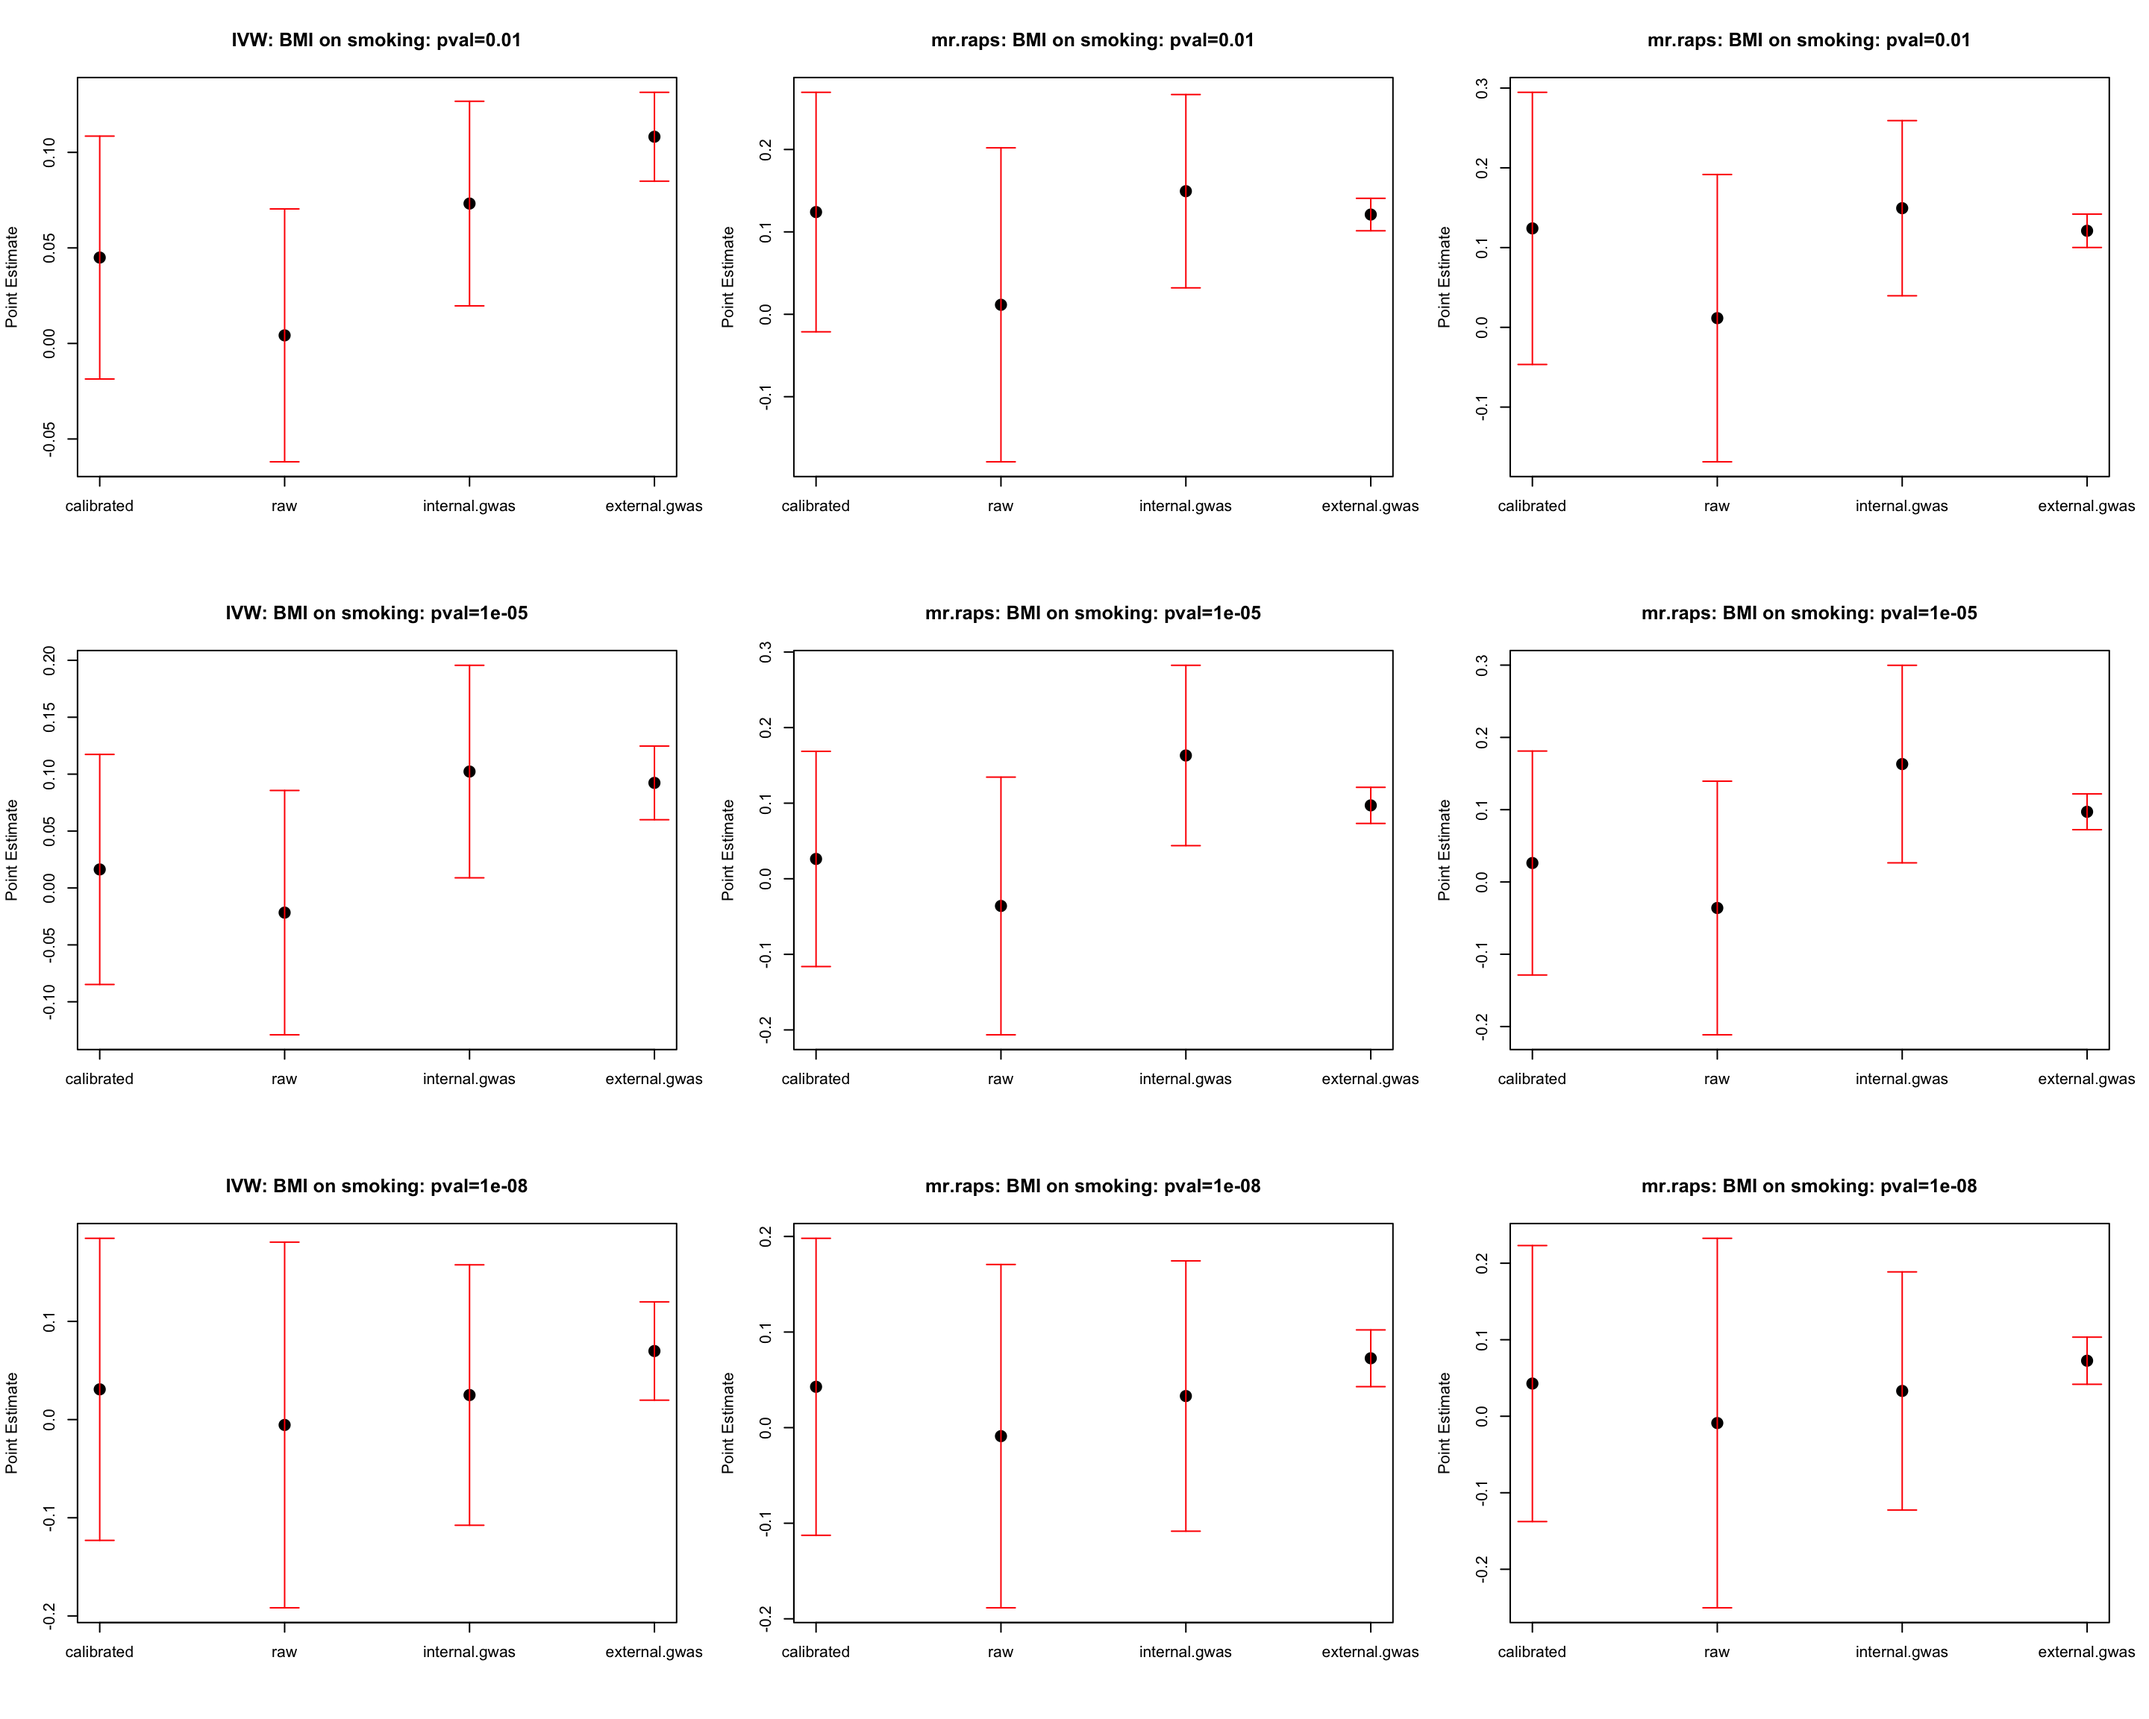
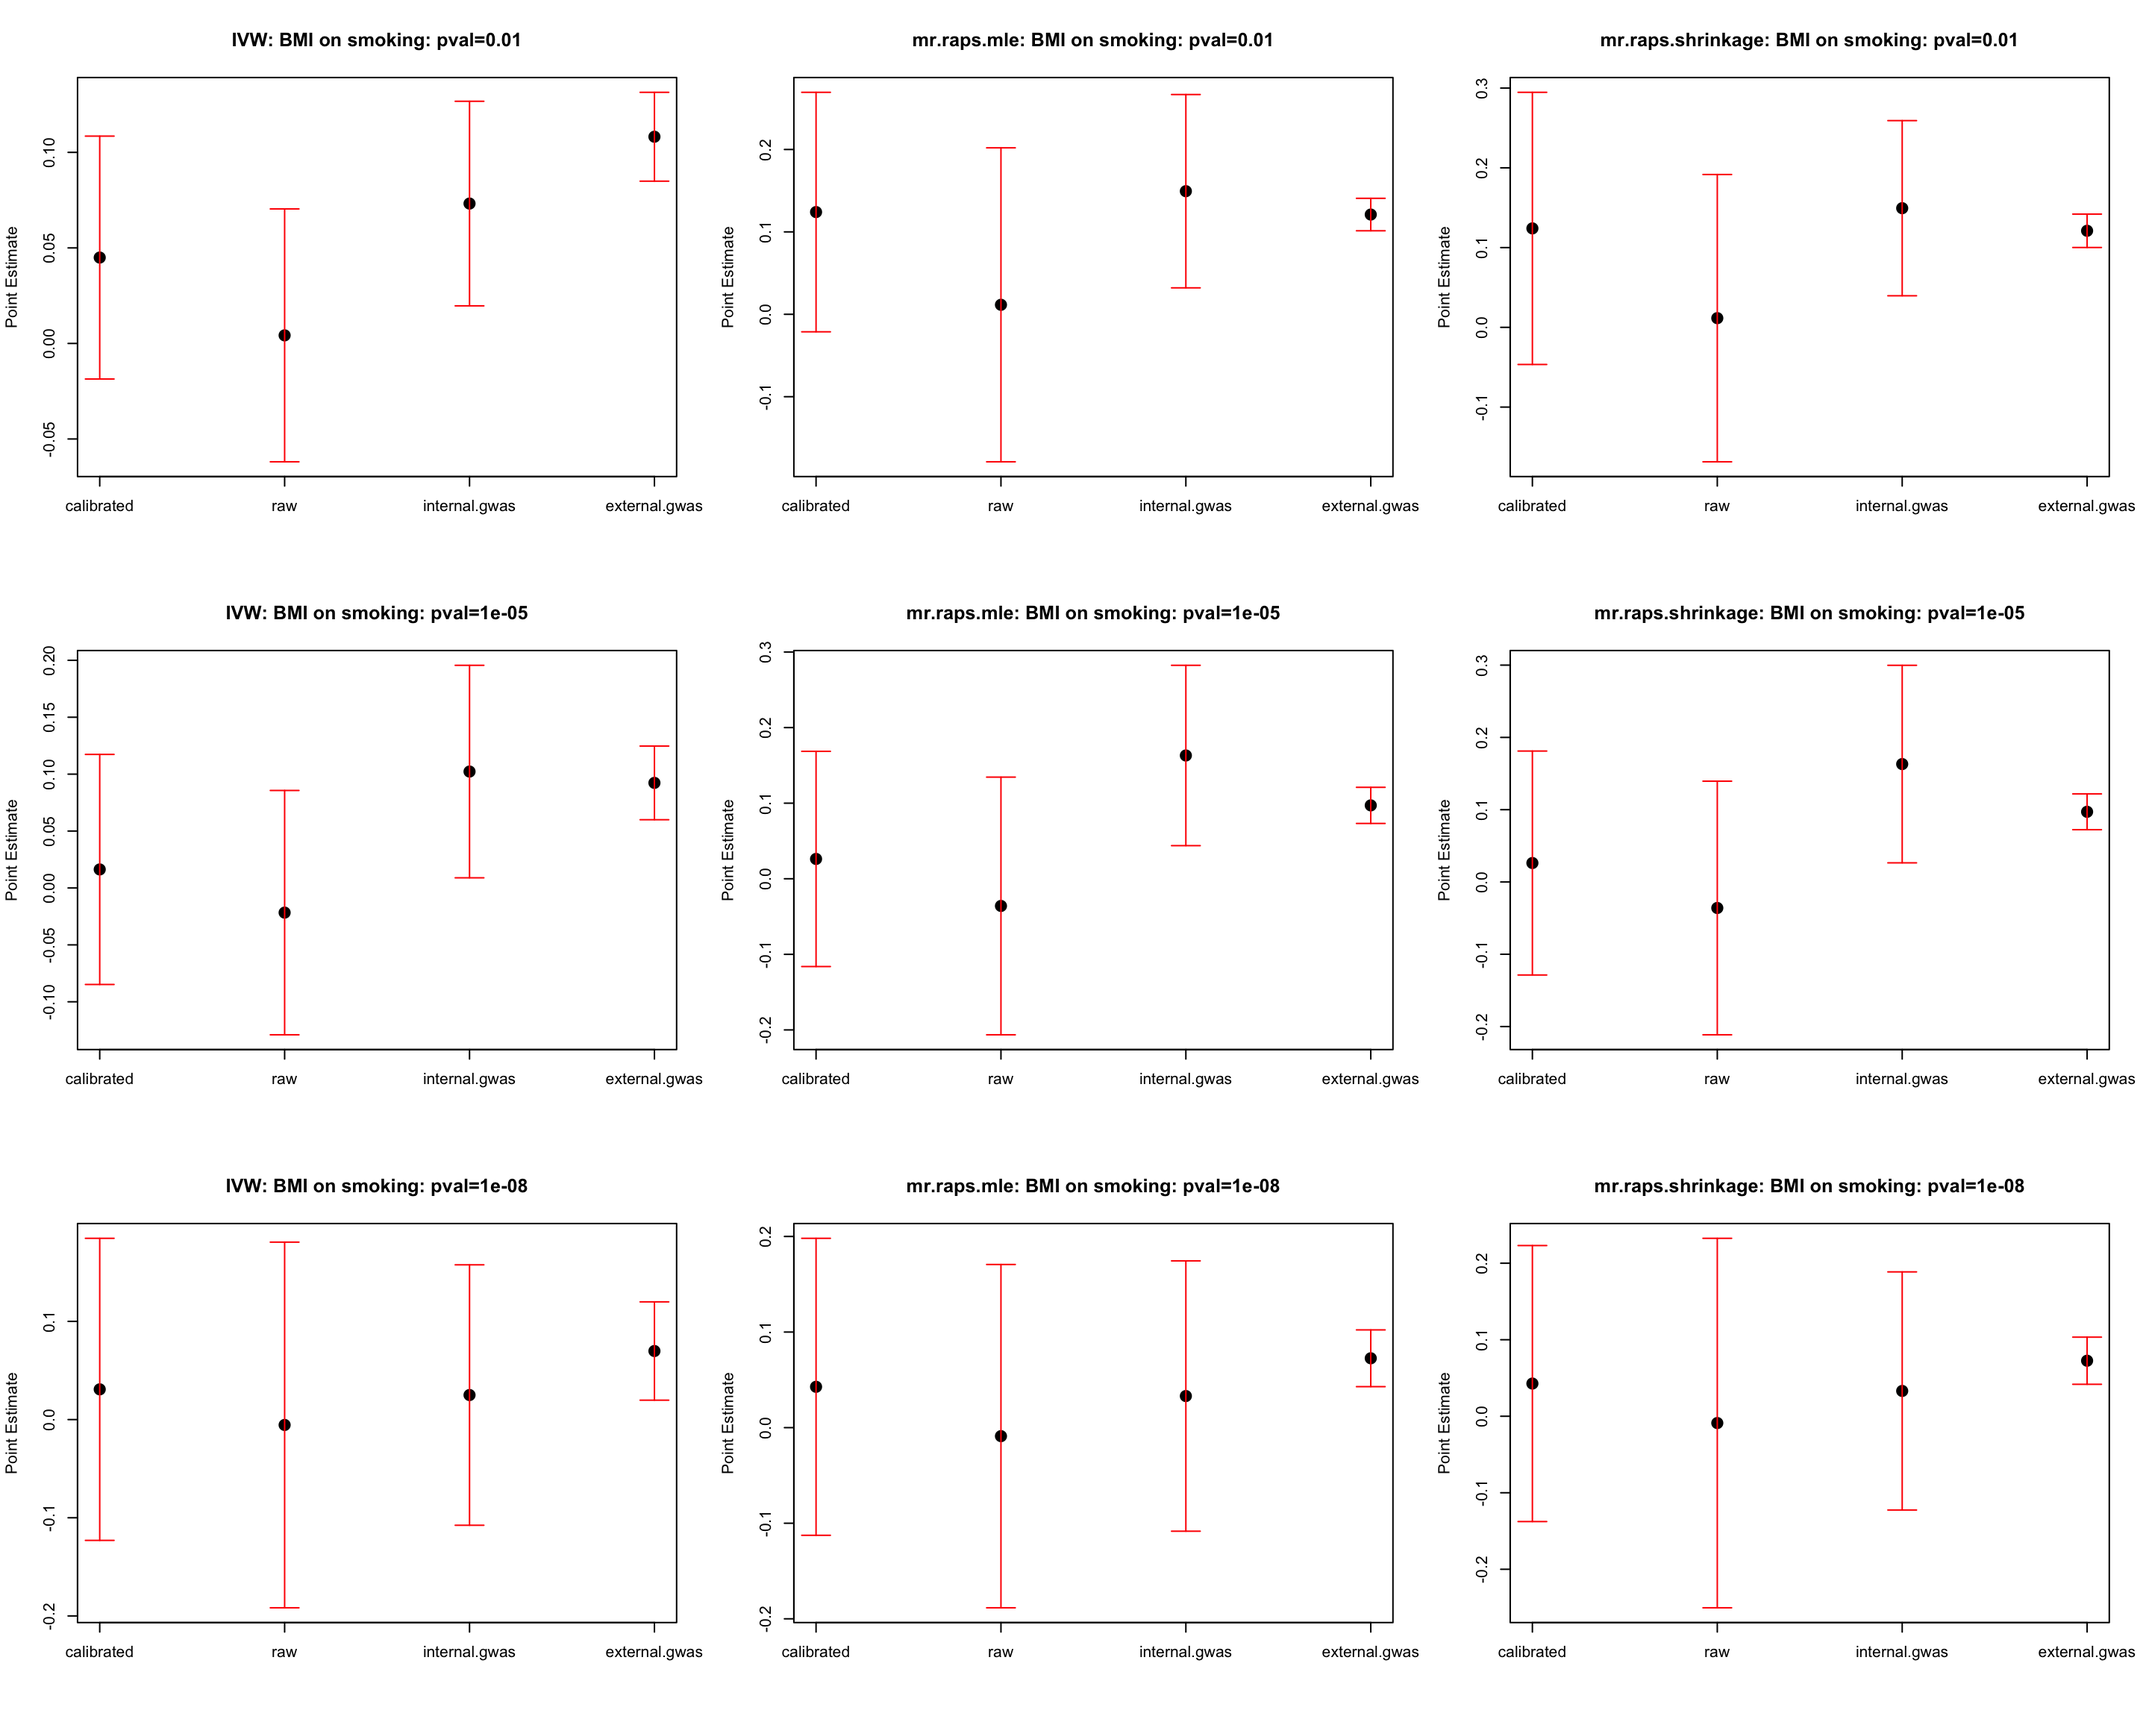
Build site.

diff --git a/docs/ukb_mr_bmi_202407.html b/docs/ukb_mr_bmi_202407.html
@@ -499,16 +499,16 @@ data/snp_list/bmi_
 <div class="panel panel-default">
 <div class="panel-heading">
 <p class="panel-title">
-<a data-toggle="collapse" data-parent="#workflowr-checks" href="#strongRepositoryversionstrongahrefhttpsgithubcomyunqiyang0215simulationcalibratedmrtreebaa03061f7734cc1f1c811351edbac75670aecc4targetblankbaa0306a"> <span class="glyphicon glyphicon-ok text-success" aria-hidden="true"></span> <strong>Repository version:</strong> <a href="https://github.com/yunqiyang0215/simulation-calibrated-mr/tree/baa03061f7734cc1f1c811351edbac75670aecc4" target="_blank">baa0306</a> </a>
+<a data-toggle="collapse" data-parent="#workflowr-checks" href="#strongRepositoryversionstrongahrefhttpsgithubcomyunqiyang0215simulationcalibratedmrtreec2285a525f132517309bbc2c2f14a85ef170728etargetblankc2285a5a"> <span class="glyphicon glyphicon-ok text-success" aria-hidden="true"></span> <strong>Repository version:</strong> <a href="https://github.com/yunqiyang0215/simulation-calibrated-mr/tree/c2285a525f132517309bbc2c2f14a85ef170728e" target="_blank">c2285a5</a> </a>
 </p>
 </div>
[2 lines of base64/hex data omitted]
 <div class="panel-body">
 <p>
 Great! You are using Git for version control. Tracking code development and connecting the code version to the results is critical for reproducibility.
 </p>
 <p>
-The results in this page were generated with repository version <a href="https://github.com/yunqiyang0215/simulation-calibrated-mr/tree/baa03061f7734cc1f1c811351edbac75670aecc4" target="_blank">baa0306</a>. See the <em>Past versions</em> tab to see a history of the changes made to the R Markdown and HTML files.
+The results in this page were generated with repository version <a href="https://github.com/yunqiyang0215/simulation-calibrated-mr/tree/c2285a525f132517309bbc2c2f14a85ef170728e" target="_blank">c2285a5</a>. See the <em>Past versions</em> tab to see a history of the changes made to the R Markdown and HTML files.
 </p>
 <p>
 Note that you need to be careful to ensure that all relevant files for the analysis have been committed to Git prior to generating the results (you can use <code>wflow_publish</code> or <code>wflow_git_commit</code>). workflowr only checks the R Markdown file, but you know if there are other scripts or data files that it depends on. Below is the status of the Git repository when the results were generated:
@@ -522,6 +522,9 @@ Ignored files:
 
 Untracked files:
     Untracked:  analysis/snp_selection.R
+
+Unstaged changes:
+    Modified:   analysis/ukb_mr_height_202407.Rmd
 
 </code></pre>
 <p>
@@ -560,6 +563,40 @@ Message
 </tr>
 </thead>
 <tbody>
+<tr>
+<td>
+Rmd
+</td>
+<td>
+<a href="https://github.com/yunqiyang0215/simulation-calibrated-mr/blob/c2285a525f132517309bbc2c2f14a85ef170728e/analysis/ukb_mr_bmi_202407.Rmd" target="_blank">c2285a5</a>
+</td>
+<td>
+yunqiyang0215
+</td>
+<td>
+2024-08-07
+</td>
+<td>
+wflow_publish("analysis/ukb_mr_bmi_202407.Rmd")
+</td>
+</tr>
+<tr>
+<td>
+html
+</td>
+<td>
+<a href="https://rawcdn.githack.com/yunqiyang0215/simulation-calibrated-mr/47e777a9d3974dcd94c63cfeac246bca3225ba56/docs/ukb_mr_bmi_202407.html" target="_blank">47e777a</a>
+</td>
+<td>
+yunqiyang0215
+</td>
+<td>
+2024-08-07
+</td>
+<td>
+Build site.
+</td>
+</tr>
 <tr>
 <td>
 Rmd
@@ -1145,6 +1182,17 @@ Date
 <tbody>
 <tr>
 <td>
+<a href="https://github.com/yunqiyang0215/simulation-calibrated-mr/blob/47e777a9d3974dcd94c63cfeac246bca3225ba56/docs/figure/ukb_mr_bmi_202407.Rmd/unnamed-chunk-5-1.png" target="_blank">47e777a</a>
+</td>
+<td>
+yunqiyang0215
+</td>
+<td>
+2024-08-07
+</td>
+</tr>
+<tr>
+<td>
 <a href="https://github.com/yunqiyang0215/simulation-calibrated-mr/blob/711b69207310a97738a72fe4d53a67b9e02cae57/docs/figure/ukb_mr_bmi_202407.Rmd/unnamed-chunk-5-1.png" target="_blank">711b692</a>
 </td>
 <td>
@@ -1435,6 +1483,17 @@ Date
 </tr>
 </thead>
 <tbody>
+<tr>
+<td>
+<a href="https://github.com/yunqiyang0215/simulation-calibrated-mr/blob/47e777a9d3974dcd94c63cfeac246bca3225ba56/docs/figure/ukb_mr_bmi_202407.Rmd/unnamed-chunk-9-1.png" target="_blank">47e777a</a>
+</td>
+<td>
+yunqiyang0215
+</td>
+<td>
+2024-08-07
+</td>
+</tr>
 <tr>
 <td>
 <a href="https://github.com/yunqiyang0215/simulation-calibrated-mr/blob/711b69207310a97738a72fe4d53a67b9e02cae57/docs/figure/ukb_mr_bmi_202407.Rmd/unnamed-chunk-9-1.png" target="_blank">711b692</a>
@@ -1758,6 +1817,17 @@ Date
 <tbody>
 <tr>
 <td>
+<a href="https://github.com/yunqiyang0215/simulation-calibrated-mr/blob/47e777a9d3974dcd94c63cfeac246bca3225ba56/docs/figure/ukb_mr_bmi_202407.Rmd/unnamed-chunk-13-1.png" target="_blank">47e777a</a>
+</td>
+<td>
+yunqiyang0215
+</td>
+<td>
+2024-08-07
+</td>
+</tr>
+<tr>
+<td>
 <a href="https://github.com/yunqiyang0215/simulation-calibrated-mr/blob/711b69207310a97738a72fe4d53a67b9e02cae57/docs/figure/ukb_mr_bmi_202407.Rmd/unnamed-chunk-13-1.png" target="_blank">711b692</a>
 </td>
 <td>
@@ -2026,6 +2096,17 @@ Date
 <tbody>
 <tr>
 <td>
+<a href="https://github.com/yunqiyang0215/simulation-calibrated-mr/blob/47e777a9d3974dcd94c63cfeac246bca3225ba56/docs/figure/ukb_mr_bmi_202407.Rmd/unnamed-chunk-17-1.png" target="_blank">47e777a</a>
+</td>
+<td>
+yunqiyang0215
+</td>
+<td>
+2024-08-07
+</td>
+</tr>
+<tr>
+<td>
 <a href="https://github.com/yunqiyang0215/simulation-calibrated-mr/blob/711b69207310a97738a72fe4d53a67b9e02cae57/docs/figure/ukb_mr_bmi_202407.Rmd/unnamed-chunk-17-1.png" target="_blank">711b692</a>
 </td>
 <td>
@@ -2195,7 +2276,7 @@ for (i in 1:length(pvals)){
   
   # Plotting
   plot(1:4, point_est, ylim=c(min(point_est - error_bars), max(point_est + error_bars)),
-       xaxt=&#39;n&#39;, pch=19, xlab=&#39;&#39;, ylab=&#39;Point Estimate&#39;, main=paste0(&#39;mr.raps: BMI on smoking: pval=&#39;, pvals[i]), cex=1.5)
+       xaxt=&#39;n&#39;, pch=19, xlab=&#39;&#39;, ylab=&#39;Point Estimate&#39;, main=paste0(&#39;mr.raps.mle: BMI on smoking: pval=&#39;, pvals[i]), cex=1.5)
   arrows(1:4, point_est - error_bars, 1:4, point_est + error_bars, angle=90, code=3, length=0.1, col=&#39;red&#39;)
   axis(1, at=1:4, labels=labels)
   
@@ -2237,7 +2318,7 @@ for (i in 1:length(pvals)){
   
   # Plotting
   plot(1:4, point_est, ylim=c(min(point_est - error_bars), max(point_est + error_bars)),
-       xaxt=&#39;n&#39;, pch=19, xlab=&#39;&#39;, ylab=&#39;Point Estimate&#39;, main=paste0(&#39;mr.raps: BMI on smoking: pval=&#39;, pvals[i]), cex=1.5)
+       xaxt=&#39;n&#39;, pch=19, xlab=&#39;&#39;, ylab=&#39;Point Estimate&#39;, main=paste0(&#39;mr.raps.shrinkage: BMI on smoking: pval=&#39;, pvals[i]), cex=1.5)
   arrows(1:4, point_est - error_bars, 1:4, point_est + error_bars, angle=90, code=3, length=0.1, col=&#39;red&#39;)
   axis(1, at=1:4, labels=labels)
     
@@ -2330,6 +2411,17 @@ Date
 </tr>
 </thead>
 <tbody>
+<tr>
+<td>
+<a href="https://github.com/yunqiyang0215/simulation-calibrated-mr/blob/47e777a9d3974dcd94c63cfeac246bca3225ba56/docs/figure/ukb_mr_bmi_202407.Rmd/unnamed-chunk-21-1.png" target="_blank">47e777a</a>
+</td>
+<td>
+yunqiyang0215
+</td>
+<td>
+2024-08-07
+</td>
+</tr>
 <tr>
 <td>
 <a href="https://github.com/yunqiyang0215/simulation-calibrated-mr/blob/711b69207310a97738a72fe4d53a67b9e02cae57/docs/figure/ukb_mr_bmi_202407.Rmd/unnamed-chunk-21-1.png" target="_blank">711b692</a>
@@ -2501,7 +2593,7 @@ for (i in 1:length(pvals)){
   
   # Plotting
   plot(1:4, point_est, ylim=c(min(point_est - error_bars), max(point_est + error_bars)),
-       xaxt=&#39;n&#39;, pch=19, xlab=&#39;&#39;, ylab=&#39;Point Estimate&#39;, main=paste0(&#39;mr.raps: BMI on smoking: pval=&#39;, pvals[i]), cex=1.5)
+       xaxt=&#39;n&#39;, pch=19, xlab=&#39;&#39;, ylab=&#39;Point Estimate&#39;, main=paste0(&#39;mr.raps.mle: BMI on smoking: pval=&#39;, pvals[i]), cex=1.5)
   arrows(1:4, point_est - error_bars, 1:4, point_est + error_bars, angle=90, code=3, length=0.1, col=&#39;red&#39;)
   axis(1, at=1:4, labels=labels)
   
@@ -2543,7 +2635,7 @@ for (i in 1:length(pvals)){
   
   # Plotting
   plot(1:4, point_est, ylim=c(min(point_est - error_bars), max(point_est + error_bars)),
-       xaxt=&#39;n&#39;, pch=19, xlab=&#39;&#39;, ylab=&#39;Point Estimate&#39;, main=paste0(&#39;mr.raps: BMI on smoking: pval=&#39;, pvals[i]), cex=1.5)
+       xaxt=&#39;n&#39;, pch=19, xlab=&#39;&#39;, ylab=&#39;Point Estimate&#39;, main=paste0(&#39;mr.raps.shrinkage: BMI on smoking: pval=&#39;, pvals[i]), cex=1.5)
   arrows(1:4, point_est - error_bars, 1:4, point_est + error_bars, angle=90, code=3, length=0.1, col=&#39;red&#39;)
   axis(1, at=1:4, labels=labels)
     
@@ -2598,6 +2690,17 @@ Date
 </tr>
 </thead>
 <tbody>
+<tr>
+<td>
+<a href="https://github.com/yunqiyang0215/simulation-calibrated-mr/blob/47e777a9d3974dcd94c63cfeac246bca3225ba56/docs/figure/ukb_mr_bmi_202407.Rmd/unnamed-chunk-25-1.png" target="_blank">47e777a</a>
+</td>
+<td>
+yunqiyang0215
+</td>
+<td>
+2024-08-07
+</td>
+</tr>
 <tr>
 <td>
 <a href="https://github.com/yunqiyang0215/simulation-calibrated-mr/blob/711b69207310a97738a72fe4d53a67b9e02cae57/docs/figure/ukb_mr_bmi_202407.Rmd/unnamed-chunk-25-1.png" target="_blank">711b692</a>
